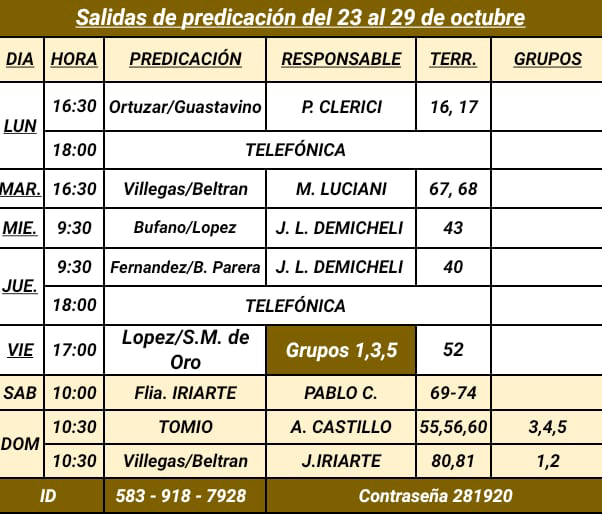
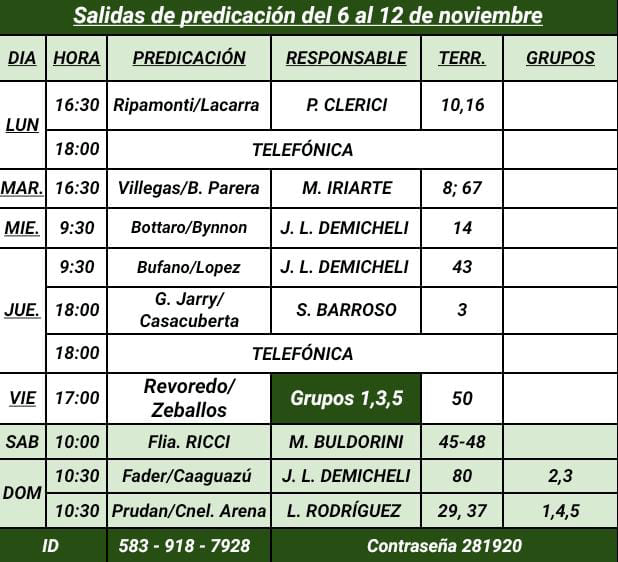
actualizo

diff --git a/pages/programaSemanal/programaSemanal.html b/pages/programaSemanal/programaSemanal.html
@@ -39,9 +39,8 @@
     <main>
         <section class="reuSemanal">
             <h2> Programa para la reunión entre semana</h2>
-            <img src="./asignacionesOctubre1.png" alt="">
-            <img src="./asignacionesOctubre2.png" alt="">
-            <img src="./asignacionesOctubre3.png" alt="">
+            <img src="./asignacionesNoviembre1.png" alt="">
+            <img src="./asignacionesNoviembre2.png" alt="">
         </section>
     </main>
     <footer>
